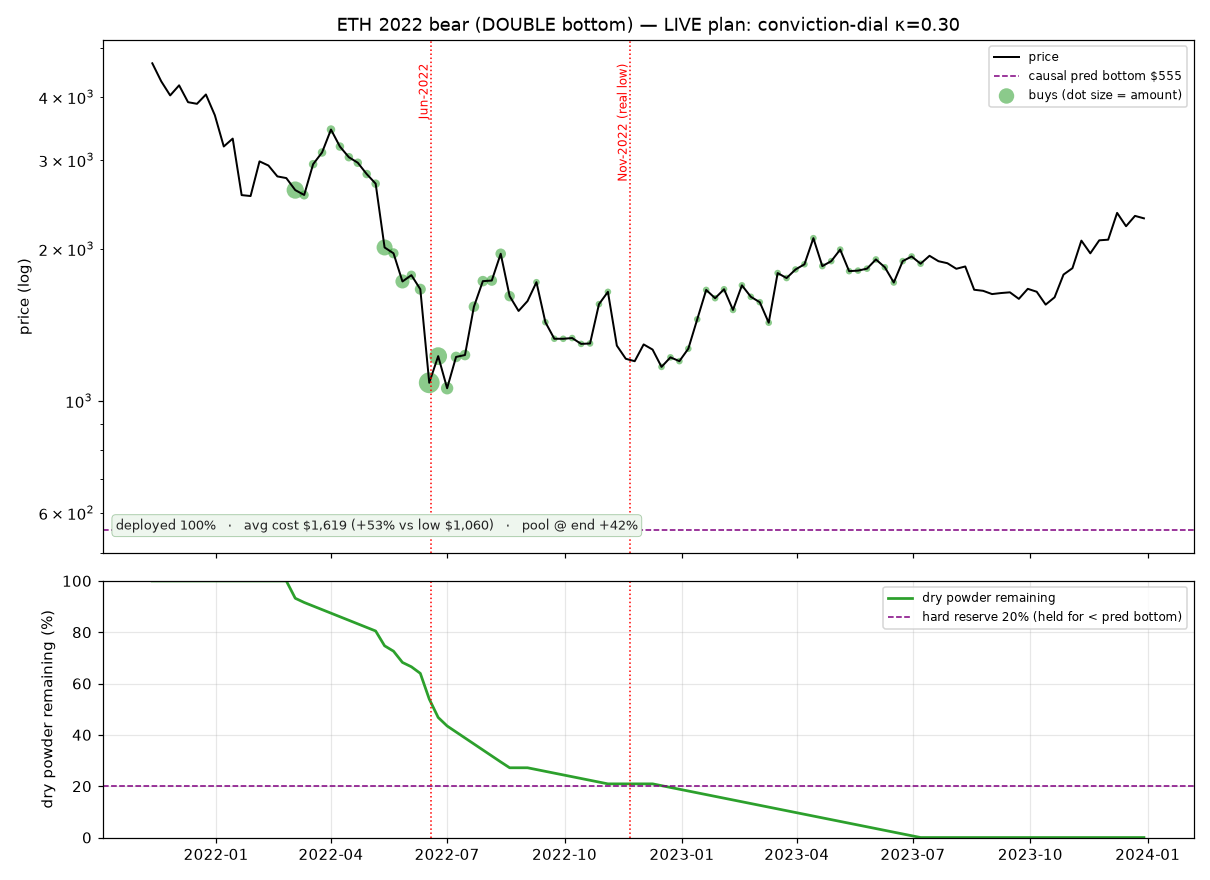
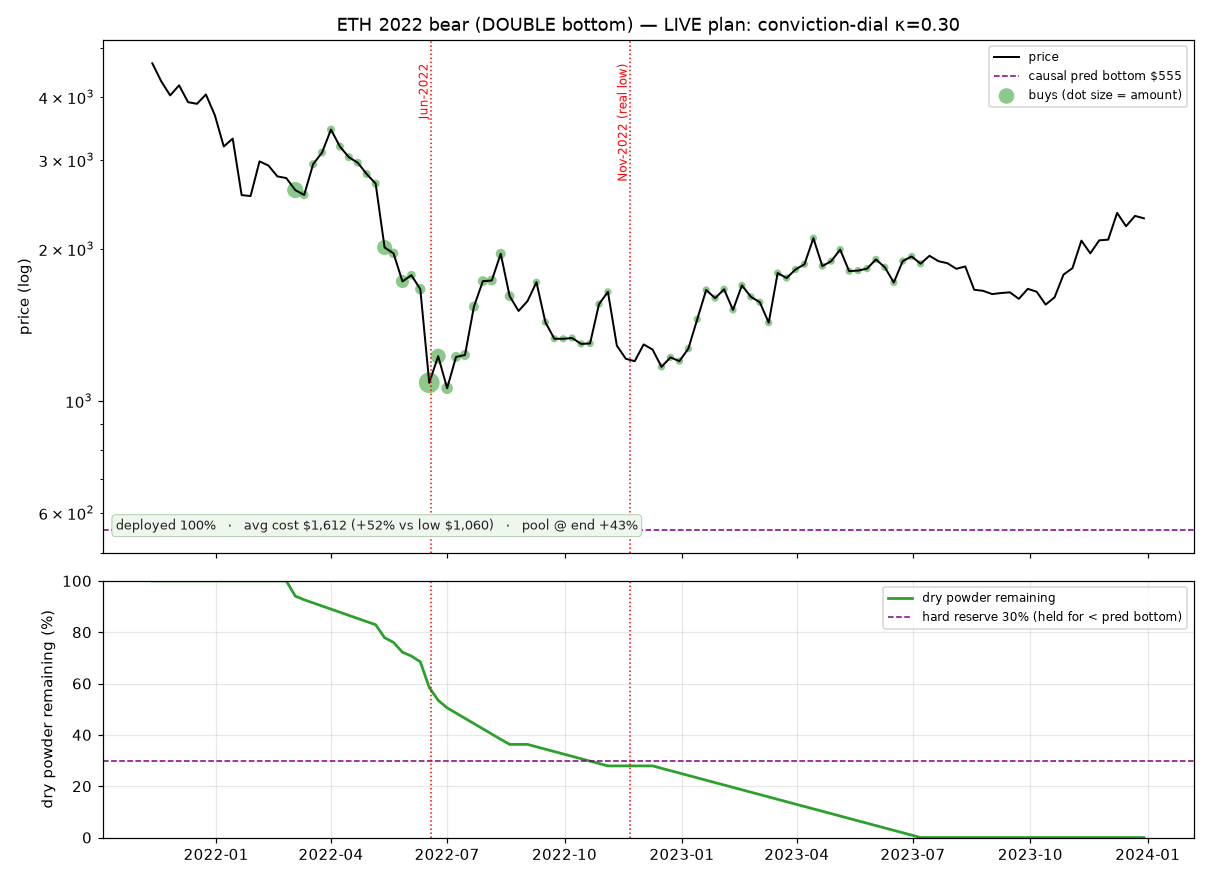
Add 2026 current-cycle deploy charts; 3x2 BTC/ETH grid + ETH 30% reserve

Changed region(s): [[0.3058, 0.7057, 0.7645, 0.9511], [0.2446, 0.675, 0.3058, 0.7057]]

diff --git a/index.html b/index.html
@@ -64,7 +64,8 @@ table.d th, table.d td { padding:7px 12px; border-bottom:1px solid #21262d; text
 table.d th { color:#8b949e; font-weight:600; background:#1b212a; }
 table.d td:first-child, table.d th:first-child { text-align:left; }
 table.d tr:last-child td { border-bottom:none; }
-.gallery { display:grid; grid-template-columns:repeat(auto-fit,minmax(460px,1fr)); gap:16px; }
+.gallery { display:grid; grid-template-columns:1fr; gap:16px; }
+@media (min-width:880px){ .gallery { grid-template-columns:1fr 1fr; } }
 .gallery figure { margin:0; background:#161b22; border:1px solid #21262d; border-radius:12px; padding:10px; }
 .gallery a.shot { display:block; position:relative; }
 .gallery a.shot::after { content:"⤢ enlarge"; position:absolute; top:8px; right:8px; background:#0d1117cc;
@@ -80,30 +81,30 @@ pre.err { background:#161b22; border:1px solid #5a1f1f; color:#ffb4b4; padding:1
 </style></head><body>
       <header>
         <div class="title">📊 Crypto Cycle Dashboard</div>
-        <div class="meta">2026-06-23 · data as of 16:19 ET · <span class='live'>● LIVE intraday — provisional, not a close</span></div>
+        <div class="meta">2026-06-23 · data as of 16:46 ET · <span class='live'>● LIVE intraday — provisional, not a close</span></div>
       </header>
       <div class="cards">
     <section class="card">
       <div class="card-head">
-        <div><span class="asset">BTC</span><span class="price">$62,363</span></div>
+        <div><span class="asset">BTC</span><span class="price">$62,404</span></div>
         <span class="pill" style="background:#0a7">STRONG_ACCUMULATE</span>
       </div>
       <div class="verdict">YES · MODERATE conviction</div>
       <div class="metric"><span class="mlabel">Bottom</span><span class="bar"><span class="fill" style="width:70%;background:#0a9d6e"></span></span><span class="mval">70<span class="mscale">/100</span></span></div>
       <div class="metric"><span class="mlabel">Top</span><span class="bar"><span class="fill" style="width:6%;background:#e0900a"></span></span><span class="mval">6<span class="mscale">/100</span></span></div>
-      <div class="chips"><span title="Where price sits in the cycle: 0 = cycle bottom, 100 = cycle top. Now 16: lower than 80% of 12y history; 33rd pctile within bottoming (cycle&lt;50).">cycle 16</span><span title="0-1 confirmation gate: how strongly the three capitulation signal groups (price-depth, volume/momentum, time) agree; the bottom score is multiplied by it. Now 0.82: higher than 91% of history; 84th pctile among bottoming days.">gate 0.82</span></div>
+      <div class="chips"><span title="Where price sits in the cycle: 0 = cycle bottom, 100 = cycle top. Now 16: lower than 80% of 12y history; 33rd pctile within bottoming (cycle&lt;50).">cycle 16</span><span title="0-1 confirmation gate: how strongly the three capitulation signal groups (price-depth, volume/momentum, time) agree; the bottom score is multiplied by it. Now 0.82: higher than 90% of history; 84th pctile among bottoming days.">gate 0.82</span></div>
       <div class="block">
         <div class="blabel">ACTION</div>
-        <div class="bval"><b>Deploy 14% of capital now</b><div class='sub'>→ DCA to 80% over 28w · reserve 20% · redeploy below $35,290</div><div class='sub' style='margin-top:5px'>Why now: ~58% of the projected peak→bottom decline is already behind us — small starter, the rest waits for lower.</div></div>
+        <div class="bval"><b>Deploy 14% of capital now</b><div class='sub'>→ DCA to 80% over 28w · reserve 20% · redeploy below $35,310</div><div class='sub' style='margin-top:5px'>Why now: ~58% of the projected peak→bottom decline is already behind us — small starter, the rest waits for lower.</div></div>
       </div>
       <div class="block">
         <div class="blabel">BOTTOM ESTIMATE</div>
-        <div class="bval">~$36,381 <span class='neg'>(-42%)</span> · around 2026-10-01<div class='sub'>range $29,141–$43,454 · 2026-08-28 → 2026-11-03</div></div>
+        <div class="bval">~$36,402 <span class='neg'>(-42%)</span> · around 2026-10-01<div class='sub'>range $29,162–$43,475 · 2026-08-28 → 2026-11-03</div></div>
       </div>
     </section>
     <section class="card">
       <div class="card-head">
-        <div><span class="asset">ETH</span><span class="price">$1,662</span></div>
+        <div><span class="asset">ETH</span><span class="price">$1,661</span></div>
         <span class="pill" style="background:#2a8">ACCUMULATE</span>
       </div>
       <div class="verdict">LIKELY · MODERATE conviction</div>
@@ -112,16 +113,16 @@ pre.err { background:#161b22; border:1px solid #5a1f1f; color:#ffb4b4; padding:1
       <div class="chips"><span title="Where price sits in the cycle: 0 = cycle bottom, 100 = cycle top. Now 18: lower than 76% of 9y history; 29th pctile within bottoming (cycle&lt;50).">cycle 18</span><span title="0-1 confirmation gate: how strongly the three capitulation signal groups (price-depth, volume/momentum, time) agree; the bottom score is multiplied by it. Now 0.74: higher than 80% of history; 75th pctile among bottoming days.">gate 0.74</span></div>
       <div class="block">
         <div class="blabel">ACTION</div>
-        <div class="bval"><b>Deploy 19% of capital now</b><div class='sub'>→ DCA to 80% over 20w · reserve 20% · redeploy below $1,144</div><div class='sub' style='margin-top:5px'>Why now: ~80% of the projected peak→bottom decline is already behind us — small starter, the rest waits for lower.</div></div>
+        <div class="bval"><b>Deploy 17% of capital now</b><div class='sub'>→ DCA to 70% over 20w · reserve 30% · redeploy below $1,143</div><div class='sub' style='margin-top:5px'>Why now: ~80% of the projected peak→bottom decline is already behind us — small starter, the rest waits for lower.</div></div>
       </div>
       <div class="block">
         <div class="blabel">BOTTOM ESTIMATE</div>
-        <div class="bval">~$1,179 <span class='neg'>(-29%)</span> · around 2026-08-19<div class='sub'>range $909–$1,386 · 2026-07-18 → 2026-09-20</div></div>
+        <div class="bval">~$1,179 <span class='neg'>(-29%)</span> · around 2026-08-19<div class='sub'>range $908–$1,386 · 2026-07-18 → 2026-09-20</div></div>
       </div>
     </section></div>
       <div class="clegend"><span><b>cycle</b> 0-100: where we are in the cycle (0 = bottom, 100 = top)</span><span><b>gate</b> 0-1: how strongly the capitulation signals confirm the bottom score</span></div>
       <section class="planner"><h3>🧮 Weekly buy planner <span class="sub" style="font-weight:400">· catch-up DCA</span></h3><p class='sub'>Enter your total pool and how much you've <b>already deployed</b>. Each week it compares that against the model's current target: it paces the rest toward the target over the horizon, and if you're behind it splits the shortfall over the next 3 weeks — then holds the reserve back for the markup or a deeper dip. Runs entirely in your browser; nothing is sent anywhere.</p><div class="pgrid"><div class="pin"><label>BTC total pool</label><div class="inwrap"><span>$</span><input id="pool-BTC" type="number" min="0" step="100" inputmode="decimal" oninput="recompute()" placeholder="e.g. 100000"></div></div><div class="pin"><label>BTC already deployed</label><div class="inwrap"><span>$</span><input id="dep-BTC" type="number" min="0" step="100" inputmode="decimal" oninput="recompute()" placeholder="0"></div></div><div class="pin"><label>ETH total pool</label><div class="inwrap"><span>$</span><input id="pool-ETH" type="number" min="0" step="100" inputmode="decimal" oninput="recompute()" placeholder="e.g. 50000"></div></div><div class="pin"><label>ETH already deployed</label><div class="inwrap"><span>$</span><input id="dep-ETH" type="number" min="0" step="100" inputmode="decimal" oninput="recompute()" placeholder="0"></div></div></div><div id="pout" class="pout"></div><script>
-const POLICY={"BTC": {"now_f": 0.1398, "tgt_f": 0.8, "res_f": 0.2, "H": 28, "anchor": 35290, "regime": "STRONG_ACCUMULATE", "color": "#0a7"}, "ETH": {"now_f": 0.1914, "tgt_f": 0.8, "res_f": 0.2, "H": 20, "anchor": 1144, "regime": "ACCUMULATE", "color": "#2a8"}};
+const POLICY={"BTC": {"now_f": 0.1398, "tgt_f": 0.8, "res_f": 0.2, "H": 28, "anchor": 35310, "regime": "STRONG_ACCUMULATE", "color": "#0a7"}, "ETH": {"now_f": 0.1674, "tgt_f": 0.7, "res_f": 0.3, "H": 20, "anchor": 1143, "regime": "ACCUMULATE", "color": "#2a8"}};
 
 function fmt(x){return '$'+Math.round(x).toLocaleString('en-US');}
 function pct(x){return (x*100).toFixed(0)+'%';}
@@ -164,9 +165,9 @@ function recompute(){
 recompute();
 </script></section>
       <div class="wrap">
-        <h3>Bottom prediction <span class='sub'>(how it's derived)</span></h3><div class='dcard'><div class='dhead'><b>BTC</b> bottom &asymp; <b>$36,381</b> <span class='neg'>(-42%)</span> around 2026-10-01 <span class='sub'>· range $29,141–$43,454, 2026-08-28→2026-11-03</span></div><ol class='dlist'><li><b>Diminishing-DD</b> [55%]: cycle max-DDs 93/82/83/76% &rarr; projected 72% &rarr; ~$35,477 (trajectory-adj &rarr; 68% &rarr; ~$39,781)</li><li><b>Closest analogues</b> [45%]: 2022-06-09 (mid_bear, -48% further, ~165d to bottom) &rarr; ~$32,226</li><li><b>Scenario mix</b>: near-bottom 0% / moderate 50% / extended bear 50%</li></ol></div><div class='dcard'><div class='dhead'><b>ETH</b> bottom &asymp; <b>$1,179</b> <span class='neg'>(-29%)</span> around 2026-08-19 <span class='sub'>· range $909–$1,386, 2026-07-18→2026-09-20</span></div><ol class='dlist'><li><b>Diminishing-DD</b> [35%]: cycle max-DDs 94/80% &rarr; projected 79% &rarr; ~$1,011 (trajectory-adj &rarr; 78% &rarr; ~$1,052)</li><li><b>Closest analogues</b> [65%]: 2022-08-27 (mid_bear, -26% further, ~86d to bottom) &rarr; ~$1,248</li><li><b>Scenario mix</b>: near-bottom 0% / moderate 50% / extended bear 50%</li></ol></div>
+        <h3>Bottom prediction <span class='sub'>(how it's derived)</span></h3><div class='dcard'><div class='dhead'><b>BTC</b> bottom &asymp; <b>$36,402</b> <span class='neg'>(-42%)</span> around 2026-10-01 <span class='sub'>· range $29,162–$43,475, 2026-08-28→2026-11-03</span></div><ol class='dlist'><li><b>Diminishing-DD</b> [55%]: cycle max-DDs 93/82/83/76% &rarr; projected 72% &rarr; ~$35,477 (trajectory-adj &rarr; 68% &rarr; ~$39,802)</li><li><b>Closest analogues</b> [45%]: 2022-06-09 (mid_bear, -48% further, ~165d to bottom) &rarr; ~$32,247</li><li><b>Scenario mix</b>: near-bottom 0% / moderate 50% / extended bear 50%</li></ol></div><div class='dcard'><div class='dhead'><b>ETH</b> bottom &asymp; <b>$1,179</b> <span class='neg'>(-29%)</span> around 2026-08-19 <span class='sub'>· range $908–$1,386, 2026-07-18→2026-09-20</span></div><ol class='dlist'><li><b>Diminishing-DD</b> [35%]: cycle max-DDs 94/80% &rarr; projected 79% &rarr; ~$1,011 (trajectory-adj &rarr; 78% &rarr; ~$1,051)</li><li><b>Closest analogues</b> [65%]: 2022-08-27 (mid_bear, -26% further, ~86d to bottom) &rarr; ~$1,247</li><li><b>Scenario mix</b>: near-bottom 0% / moderate 50% / extended bear 50%</li></ol></div>
         
         <h3>Dynamic-DCA track record <span class='sub'>(historic clusters, decay-weighted)</span></h3><table class='d'><tr><th>Asset</th><th>n</th><th>Win</th><th>Avg&nbsp;12m</th><th>Avg&nbsp;DD</th><th>Worst&nbsp;DD</th></tr><tr><td>BTC</td><td>6</td><td>100%</td><td>+200%</td><td>-12%</td><td>-52%</td></tr><tr><td>ETH</td><td>9</td><td>95%</td><td>+38%</td><td>-17%</td><td>-79%</td></tr></table>
-        <h3>Charts <span class='sub'>· tap any chart to open it full-size</span></h3><p class='sub' style='max-width:780px;margin:-2px 0 14px;line-height:1.55'><b>Which plan is the recommendation?</b> The deployment shown up top (the ACTION box and weekly planner) is the <b>conviction-dial plan, &kappa;=0.30</b>. The first two charts show why that setting is chosen; the deployment-backtest charts replay <b>that exact plan</b> through real bears (BTC 2018 &amp; 2022, ETH 2022 &amp; 2018), so you can see how it actually deploys, holds reserve through the low, and redeploys up the recovery &mdash; including the hard case (ETH 2018).</p><div class='gallery'><figure><a class="shot" href="reports/conviction_dial.png" target="_blank" rel="noopener"><img loading="lazy" src="reports/conviction_dial.png" alt="Conviction dial"></a><figcaption><span class="takeaway">Why not go all-in</span><span class="cap">Each coloured line is a forward market scenario; the black dashed line is the worst case across them. It peaks at conviction &kappa;&asymp;0.30 &mdash; and that is exactly the setting the recommended deployment up top runs at: lean in moderately and keep a small reserve for a deeper low, rather than max-aggressive.</span><span class="sub">Conviction dial · 2026-06-23 15:39</span></figcaption></figure><figure><a class="shot" href="reports/scenario_stress.png" target="_blank" rel="noopener"><img loading="lazy" src="reports/scenario_stress.png" alt="Scenario stress test"></a><figcaption><span class="takeaway">Why the hybrid plan</span><span class="cap">Left: six ways BTC could move from today. Right: how four deployment styles score in each &mdash; all-in-now, wait-for-deep, flat DCA and <b>HYBRID</b>. The HYBRID bars stay solid everywhere and are never the worst; the recommended plan up top is this hybrid family (the &kappa;-dial), which is why it's the default.</span><span class="sub">Scenario stress test · 2026-06-23 15:39</span></figcaption></figure><figure><a class="shot" href="reports/deploy_BTC_2022.png" target="_blank" rel="noopener"><img loading="lazy" src="reports/deploy_BTC_2022.png" alt="BTC · 2022 deployment backtest"></a><figcaption><span class="takeaway">Does it hold up in a real bear? (BTC)</span><span class="cap">The <b>live plan itself</b> (conviction-dial &kappa;=0.30, the same one recommended up top) replayed through the real 2022 crash and recovery. Green dots = buys (size = amount); bottom panel = dry powder left, with the hard reserve held for below the predicted bottom. It deploys into weakness, keeps reserve for a deeper low, then redeploys as the trend turns &mdash; the box shows the resulting average cost vs the actual low.</span><span class="sub">BTC · 2022 deployment backtest · 2026-06-23 16:16</span></figcaption></figure><figure><a class="shot" href="reports/deploy_BTC_2018.png" target="_blank" rel="noopener"><img loading="lazy" src="reports/deploy_BTC_2018.png" alt="BTC · 2018 deployment backtest"></a><figcaption><span class="takeaway">And the 2018 single-low bear (BTC)</span><span class="cap">The same live plan replayed through BTC's 2018 bear &mdash; an &#8209;83% grind to a single low (no double bottom). Watch the dry-powder panel hold reserve into the capitulation, then redeploy up the 2019 recovery: a second, different-shaped bear to sanity-check that the plan isn't tuned to 2022 alone.</span><span class="sub">BTC · 2018 deployment backtest · 2026-06-23 16:16</span></figcaption></figure><figure><a class="shot" href="reports/deploy_ETH_2022.png" target="_blank" rel="noopener"><img loading="lazy" src="reports/deploy_ETH_2022.png" alt="ETH · 2022 deployment backtest"></a><figcaption><span class="takeaway">Does it hold up in a real bear? (ETH)</span><span class="cap">The same live plan (conviction-dial &kappa;=0.30) replayed through ETH's 2022 bear &mdash; the exact engine recommended up top. Green dots = buys; bottom panel = dry powder left (the hard reserve waits for a low below the predicted bottom). Lets you see how the recommended plan would actually have deployed through a real bear.</span><span class="sub">ETH · 2022 deployment backtest · 2026-06-23 16:16</span></figcaption></figure><figure><a class="shot" href="reports/deploy_ETH_2018.png" target="_blank" rel="noopener"><img loading="lazy" src="reports/deploy_ETH_2018.png" alt="ETH · 2018 deployment backtest"></a><figcaption><span class="takeaway">ETH 2018 — the hard case (shown honestly)</span><span class="cap">The worst result in the set, and worth seeing. ETH's first-ever bear fell &#8209;94% to $84 &mdash; far below the causal &#8209;80% prediction, because with no prior ETH cycle the model defaults. So the reserve released as price broke that too-high predicted bottom, just before the final capitulation. The window ends in 2019 with ETH still ~$130, leaving the pool &#8209;68%; the cheap coins bought here only paid off in the 2021 run (outside this window). Both assets now have several prior cycles, so today's call is not a blind first-cycle default.</span><span class="sub">ETH · 2018 deployment backtest · 2026-06-23 16:16</span></figcaption></figure></div>
+        <h3>Charts <span class='sub'>· tap any chart to open it full-size</span></h3><p class='sub' style='max-width:780px;margin:-2px 0 14px;line-height:1.55'><b>Which plan is the recommendation?</b> The deployment shown up top (the ACTION box and weekly planner) is the <b>conviction-dial plan, &kappa;=0.30</b>. The first two charts show why that setting is chosen. Below them is a grid of deployment backtests &mdash; <b>BTC in the left column, ETH in the right</b>, the <b>current 2026 cycle</b> on top, then the <b>2022</b> and <b>2018</b> bears &mdash; replaying <b>that exact plan</b> so you can see how it deploys, holds reserve through the low, and redeploys up the recovery (including the hard case, ETH 2018).</p><div class='gallery'><figure><a class="shot" href="reports/conviction_dial.png" target="_blank" rel="noopener"><img loading="lazy" src="reports/conviction_dial.png" alt="Conviction dial"></a><figcaption><span class="takeaway">Why not go all-in</span><span class="cap">Each coloured line is a forward market scenario; the black dashed line is the worst case across them. It peaks at conviction &kappa;&asymp;0.30 &mdash; and that is exactly the setting the recommended deployment up top runs at: lean in moderately and keep a reserve for a deeper low, rather than max-aggressive.</span><span class="sub">Conviction dial · 2026-06-23 15:39</span></figcaption></figure><figure><a class="shot" href="reports/scenario_stress.png" target="_blank" rel="noopener"><img loading="lazy" src="reports/scenario_stress.png" alt="Scenario stress test"></a><figcaption><span class="takeaway">Why the hybrid plan</span><span class="cap">Left: six ways BTC could move from today. Right: how four deployment styles score in each &mdash; all-in-now, wait-for-deep, flat DCA and <b>HYBRID</b>. The HYBRID bars stay solid everywhere and are never the worst; the recommended plan up top is this hybrid family (the &kappa;-dial), which is why it's the default.</span><span class="sub">Scenario stress test · 2026-06-23 15:39</span></figcaption></figure><figure><a class="shot" href="reports/deploy_BTC_2026.png" target="_blank" rel="noopener"><img loading="lazy" src="reports/deploy_BTC_2026.png" alt="BTC · 2026 (current cycle, live)"></a><figcaption><span class="takeaway">BTC — 2026: where we are now</span><span class="cap"><b>2026 / current cycle.</b> The live plan replayed causally from the model's first accumulate signal (Feb 2026) to today &mdash; green dots = buys, bottom panel = dry powder left. The box shows how much is deployed and the average cost so far. Incomplete (no recovery yet); a snapshot, regenerated when the backtest is re-run.</span><span class="sub">BTC · 2026 (current cycle, live) · 2026-06-23 16:46</span></figcaption></figure><figure><a class="shot" href="reports/deploy_ETH_2026.png" target="_blank" rel="noopener"><img loading="lazy" src="reports/deploy_ETH_2026.png" alt="ETH · 2026 (current cycle, live)"></a><figcaption><span class="takeaway">ETH — 2026: where we are now</span><span class="cap"><b>2026 / current cycle.</b> ETH's live deployment to date, holding the new ETH-specific 30% reserve. Green dots = buys; bottom panel = dry powder left. Box = deployed % and avg cost so far. Incomplete snapshot, regenerated when the backtest is re-run.</span><span class="sub">ETH · 2026 (current cycle, live) · 2026-06-23 16:46</span></figcaption></figure><figure><a class="shot" href="reports/deploy_BTC_2022.png" target="_blank" rel="noopener"><img loading="lazy" src="reports/deploy_BTC_2022.png" alt="BTC · 2022 deployment backtest"></a><figcaption><span class="takeaway">BTC — 2022 bear (does it hold up?)</span><span class="cap"><b>2022 bear.</b> The live plan (conviction-dial &kappa;=0.30) replayed through the real 2022 crash and recovery. Green dots = buys; bottom panel = dry powder, with the hard reserve held for below the predicted bottom. It deploys into weakness, keeps reserve for a deeper low, then redeploys as the trend turns &mdash; box shows avg cost vs the actual low.</span><span class="sub">BTC · 2022 deployment backtest · 2026-06-23 16:46</span></figcaption></figure><figure><a class="shot" href="reports/deploy_ETH_2022.png" target="_blank" rel="noopener"><img loading="lazy" src="reports/deploy_ETH_2022.png" alt="ETH · 2022 deployment backtest"></a><figcaption><span class="takeaway">ETH — 2022 bear (does it hold up?)</span><span class="cap"><b>2022 bear.</b> The same live plan through ETH's 2022 bear. Green dots = buys; bottom panel = dry powder (the hard reserve waits for a low below the predicted bottom, then redeploys up the recovery). Shows how the recommended plan would actually have deployed through a real bear.</span><span class="sub">ETH · 2022 deployment backtest · 2026-06-23 16:46</span></figcaption></figure><figure><a class="shot" href="reports/deploy_BTC_2018.png" target="_blank" rel="noopener"><img loading="lazy" src="reports/deploy_BTC_2018.png" alt="BTC · 2018 deployment backtest"></a><figcaption><span class="takeaway">BTC — 2018 bear (single low)</span><span class="cap"><b>2018 bear.</b> The same live plan replayed through BTC's &#8209;83% grind to a single low (no double bottom). The dry-powder panel holds reserve into the capitulation, then redeploys up the 2019 recovery &mdash; a different-shaped bear to check the plan isn't tuned to 2022 alone.</span><span class="sub">BTC · 2018 deployment backtest · 2026-06-23 16:46</span></figcaption></figure><figure><a class="shot" href="reports/deploy_ETH_2018.png" target="_blank" rel="noopener"><img loading="lazy" src="reports/deploy_ETH_2018.png" alt="ETH · 2018 deployment backtest"></a><figcaption><span class="takeaway">ETH — 2018 bear (the hard case)</span><span class="cap"><b>2018 bear &mdash; the worst result in the set, shown honestly.</b> ETH's first-ever bear fell &#8209;94% to $84, far below the causal &#8209;80% prediction (no prior ETH cycle &rarr; the model defaults), so the reserve released as price broke that too-high predicted bottom, just before the final capitulation. The window ends in 2019 with ETH ~$130 (pool &#8209;68%); the cheap coins paid off only in the 2021 run, outside this window. Today's assets have several prior cycles, so it's not a blind first-cycle default.</span><span class="sub">ETH · 2018 deployment backtest · 2026-06-23 16:46</span></figcaption></figure></div>
       </div>
       <footer>Research / educational only — not investment advice.</footer></body></html>
